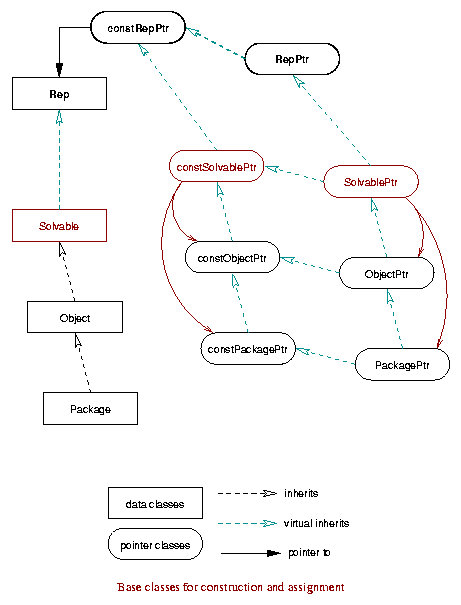
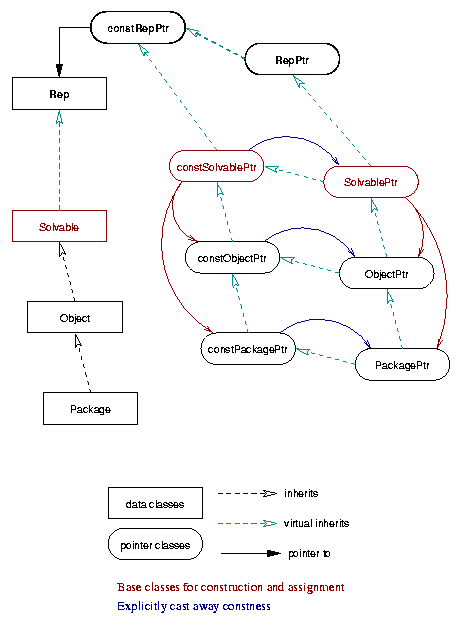
CountedPtr: static member function cast_away_const added to (nonconst) pointer classes, returning a (nonconst) pointer referencing the same data object as the (const) pointer passed as argument.
e.g.: PackagePtr PackagePtr::cast_away_const( const constPackagePtr & rhs );

svn path=/trunk/liby2util/; revision=4075

diff --git a/doc/CountedPtr.html b/doc/CountedPtr.html
@@ -70,11 +70,15 @@ While a <CODE>const Data *</CODE> is provided by <CODE>constDataPtr</CODE>.
 <tr><td>const <CODE>DataPtr</CODE></td>      <td>Data *const</td></tr>
 </table>
 
-<p> Construction, assignment, and implicit conversion on pointer classes will follow the
-same rules as with traditional pointers. And like traditional pointers, you'll have to test
+<H4>Construction, assignment, and implicit conversion</H4>
+
+<p> Construction, assignment, and implicit conversion on pointer classes will follow
+the same rules as with traditional pointers. And like traditional pointers, you'll have to test
 for <CODE>!= NULL</CODE> before trying to access the data object using the
 <CODE>-></CODE> operator.
 </p>
+
+<H4>Casting up the pointer class hierarchy (dynamic_cast)</H4>
 
 <p> A little bit different is the situation, if you want to cast up the pointer class
 hierarchy. Something like <CODE>dynamic_cast&lt;PackagePtr>(ObjectPtr)</CODE> will not
@@ -92,6 +96,31 @@ pointer class inhertiting <CODE>SolvablePtr</CODE> (<CODE>ObjectPtr</CODE>). If 
 pointer class does not actually reference a <CODE>Package</CODE> object, the created
 <CODE>PackagePtr</CODE> will be <CODE>NULL</CODE>.
 </p>
+
+<H4>Casting away constness (const_cast)</H4>
+
+<p> In some situation it's desirable being able to convert a e.g.
+<CODE>constPackagePtr</CODE> into a <CODE>PackagePtr</CODE>, casting away constness like a
+<CODE>const_cast&lt;Package *>(const Package *)</CODE>.
+</p>
+
+<p> For this each (nonconst) pointer class defines a static member function
+<CODE>cast_away_const</CODE>, returning a (nonconst) pointer referencing the same data
+object as the (const) pointer passed as argument.
+</p>
+
+<table bgcolor="#BEEAE0" border="0" width="100%">
+<tr><td><PRE>
+PackagePtr PackagePtr::cast_away_const( const constPackagePtr & rhs );
+</PRE></td></tr>
+<tr><td><PRE>
+bool lookup ( constPackagePtr el ) {
+  PackagePtr p = PackagePtr::cast_away_const( el );
+  ...
+}
+</PRE></td></tr>
+</table>
+
 
 <!-- ****************************************************************************** -->
 <H2>Creating base classes</H2>

diff --git a/src/include/y2util/RepDef.h b/src/include/y2util/RepDef.h
@@ -73,6 +73,7 @@
   };								\
   class NAME##Ptr : virtual public const##NAME##Ptr, virtual public RepPtr {			\
     GEN_BODY( NAME##Ptr, NAME *, RepPtr )			\
+    GEN_CONSTCAST( NAME  )					\
   };
 
 
@@ -103,6 +104,7 @@
   class NAME##Ptr : virtual public const##NAME##Ptr, virtual public FROM##Ptr {		\
     GEN_BODY( NAME##Ptr, NAME *, RepPtr )						\
     GEN_BASECONSTRUCT( NAME##Ptr, BASE##Ptr, BASE *, RepPtr )				\
+    GEN_CONSTCAST( NAME )								\
   };
 
 
@@ -112,7 +114,6 @@
 #define IMPL_BASE_POINTER(NAME)					\
   GEN_IMPL( const##NAME##Ptr, const NAME *, constRepPtr )	\
   GEN_IMPL( NAME##Ptr, NAME *, RepPtr )
-
 
 ///////////////////////////////////////////////////////////////////
 // Implementation for derived pointer classes
@@ -144,6 +145,17 @@
   public:									\
     PTRCLASS( BASEDATAPTR p );							\
     PTRCLASS( const BASEPTRCLASS & rhs );					\
+  private:
+
+
+#define GEN_CONSTCAST( NAME )							\
+  public:									\
+    static NAME##Ptr cast_away_const( const NAME##Ptr & rhs ) {			\
+      return rhs;								\
+    }										\
+    static NAME##Ptr cast_away_const( const const##NAME##Ptr & rhs ) {		\
+      return const_cast<NAME *>( rhs.operator->() );				\
+    }										\
   private:
 
 ///////////////////////////////////////////////////////////////////

diff --git a/testsuite/test_Rep.cc b/testsuite/test_Rep.cc
@@ -15,6 +15,14 @@ int main()
   p = 0;
   p = new Pkg;
 
+  constPkgPtr c( new Pkg );
+  DBG << "p " << p << endl;
+  DBG << "c " << c << endl;
+  p = PkgPtr::cast_away_const( p );
+  DBG << "p " << p << endl;
+  p = PkgPtr::cast_away_const( c );
+  DBG << "p " << p << endl;
+
   DBG << "==================================" << endl;
   return 0;
 }
